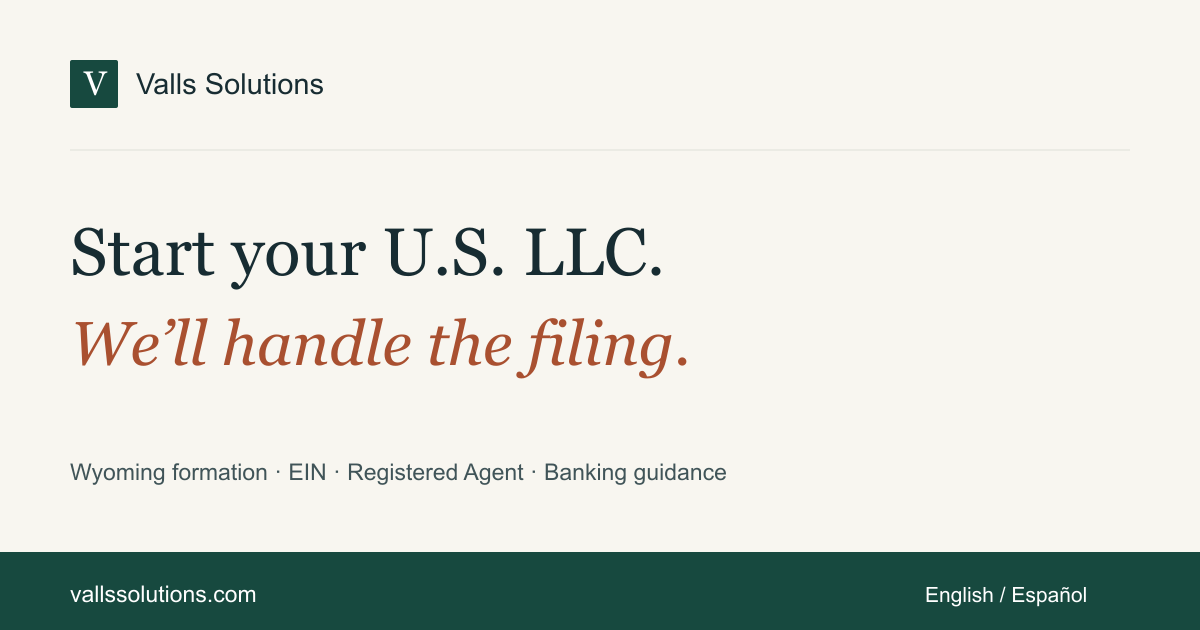
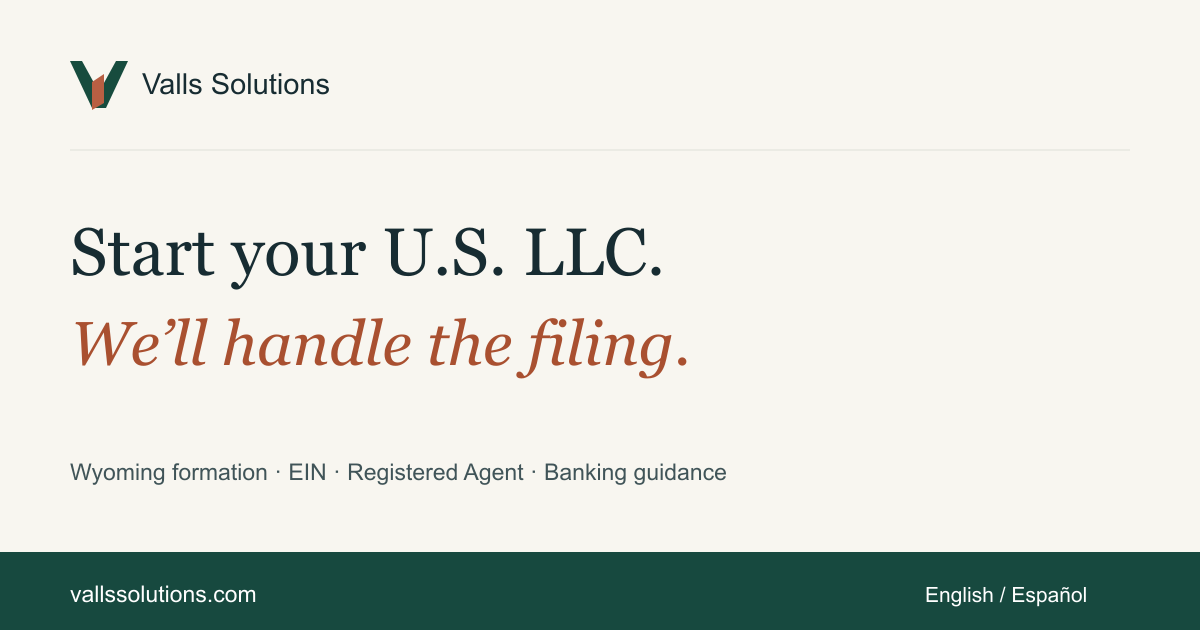
Add Valls Solutions monogram identity to the website

Changed region(s): [[0.0308, 0.0905, 0.2775, 0.181]]

diff --git a/src/app/globals.css b/src/app/globals.css
@@ -42,7 +42,7 @@ a:focus-visible, button:focus-visible, summary:focus-visible {
 .site-header { position: sticky; top: 0; z-index: 1000; background: var(--paper); border-bottom: 1px solid rgba(23,44,50,.09); }
 .nav-shell { width: min(1320px, calc(100% - 64px)); min-height: 78px; margin-inline: auto; display: flex; align-items: center; justify-content: space-between; gap: 28px; }
 .brand { display: inline-flex; align-items: center; gap: 10px; color: var(--ink); font-size: 17px; font-weight: 760; letter-spacing: -.04em; text-decoration: none; white-space: nowrap; }
-.brand-mark { width: 34px; height: 34px; display: grid; place-items: center; background: var(--green); color: white; font-family: var(--display); font-size: 24px; font-weight: 400; border-radius: 2px; }
+.brand-mark { width: 44px; height: 44px; display: block; object-fit: contain; flex: 0 0 auto; }
 .brand-light { font-weight: 430; }
 .primary-nav { display: flex; align-items: center; gap: clamp(15px, 2.1vw, 30px); }
 .primary-nav > a:not(.button) { color: var(--ink-soft); font-size: 13px; font-weight: 570; text-decoration: none; transition: color .18s ease; }

diff --git a/src/components/SiteHeader.tsx b/src/components/SiteHeader.tsx
@@ -55,7 +55,7 @@ export function SiteHeader({ locale }: SiteHeaderProps) {
       <header className="site-header">
         <div className="nav-shell">
           <Link className="brand" href={english ? "/" : "/es/"} aria-label={english ? "Valls Solutions, home" : "Valls Solutions, inicio"}>
-            <span className="brand-mark" aria-hidden="true">V</span>
+            <img className="brand-mark" src="/assets/media/valls-monogram.webp" alt="" aria-hidden="true" />
             <span>Valls <span className="brand-light">Solutions</span></span>
           </Link>
           <button

diff --git a/docs/brand-direction-2026-10-06.md b/docs/brand-direction-2026-10-06.md
@@ -1,0 +1,20 @@
+# Valls Solutions — logo direction
+
+## Recommendation
+Use the new V monogram with the existing text wordmark “Valls Solutions.” It pairs with the current site rather than adding a separate, mismatched luxury-finance identity. The mark suggests the company taking shape and a way forward; green anchors it and the small terracotta element gives it warmth.
+
+## Review of the four supplied directions
+
+1. Globe + orbit + star + V: signals international reach, but the orbit, continents and star become busy at navigation and favicon sizes. It can read as a travel or logistics brand.
+2. V + skyscraper + orbit: the most literal but looks like a property developer, architecture firm or investment company.
+3. V + globe + rising bars: strong color and recognizable initials, but the bars emphasize investment/growth and the orbit makes it a crowded financial-services mark.
+4. VS monogram: simplest and best starting point. Refine it by removing the metallic treatment and pairing it with the site's existing humanist typography and colors.
+
+## Chosen use
+- Navigation: transparent V symbol beside accessible HTML text “Valls Solutions.”
+- Favicon: small vector V in forest green and terracotta.
+- Social previews: same palette and simplified symbol; keep all promotional text as editable SVG text.
+- Colors: site forest green `#174c3e`, terracotta `#b85f43`, warm paper background `#f8f6f0`.
+- Keep the symbol readable by itself; do not add tiny service descriptors to the icon.
+
+The icon was generated with OpenAI image generation on 2026-10-06, then cropped to its transparent bounds for the web. This is a first working brand direction, not a trademark clearance or a claim that the mark is unique in every market. The original generated image remains in Codex generated assets.

diff --git a/docs/assets/media-sources.md b/docs/assets/media-sources.md
@@ -20,3 +20,13 @@
 - Origin: original typographic artwork created for Valls Solutions on 2026-10-06; no external photos, templates or logos.
 - Typography: system Georgia and Arial, rasterized locally with the existing Sharp installation.
 - Usage: English and Spanish Open Graph/Twitter metadata. No attribution required.
+
+## Valls Solutions logo symbol
+
+- Web asset: public/assets/media/valls-monogram.webp (961 × 743, transparent WebP; approximately 42 KB).
+- High-resolution transparent master: public/assets/media/valls-monogram.png (961 × 743).
+- Editable small-size counterpart: public/assets/favicon.svg (vector mark for browser tabs).
+- Origin: generated for Valls Solutions with OpenAI image generation on 2026-10-06, using the owner's four supplied logo concepts only as inspiration for a monogram direction; original silhouette, no source logo copied. The transparent margins were cropped and a WebP derivative was made for site use.
+- Palette: forest green #174c3e and terracotta #b85f43, aligned to the website design tokens.
+- Usage: website navigation; favicon SVG used by English and Spanish routes. Social preview mark is a simplified inline SVG variation.
+- Attribution: none required.
